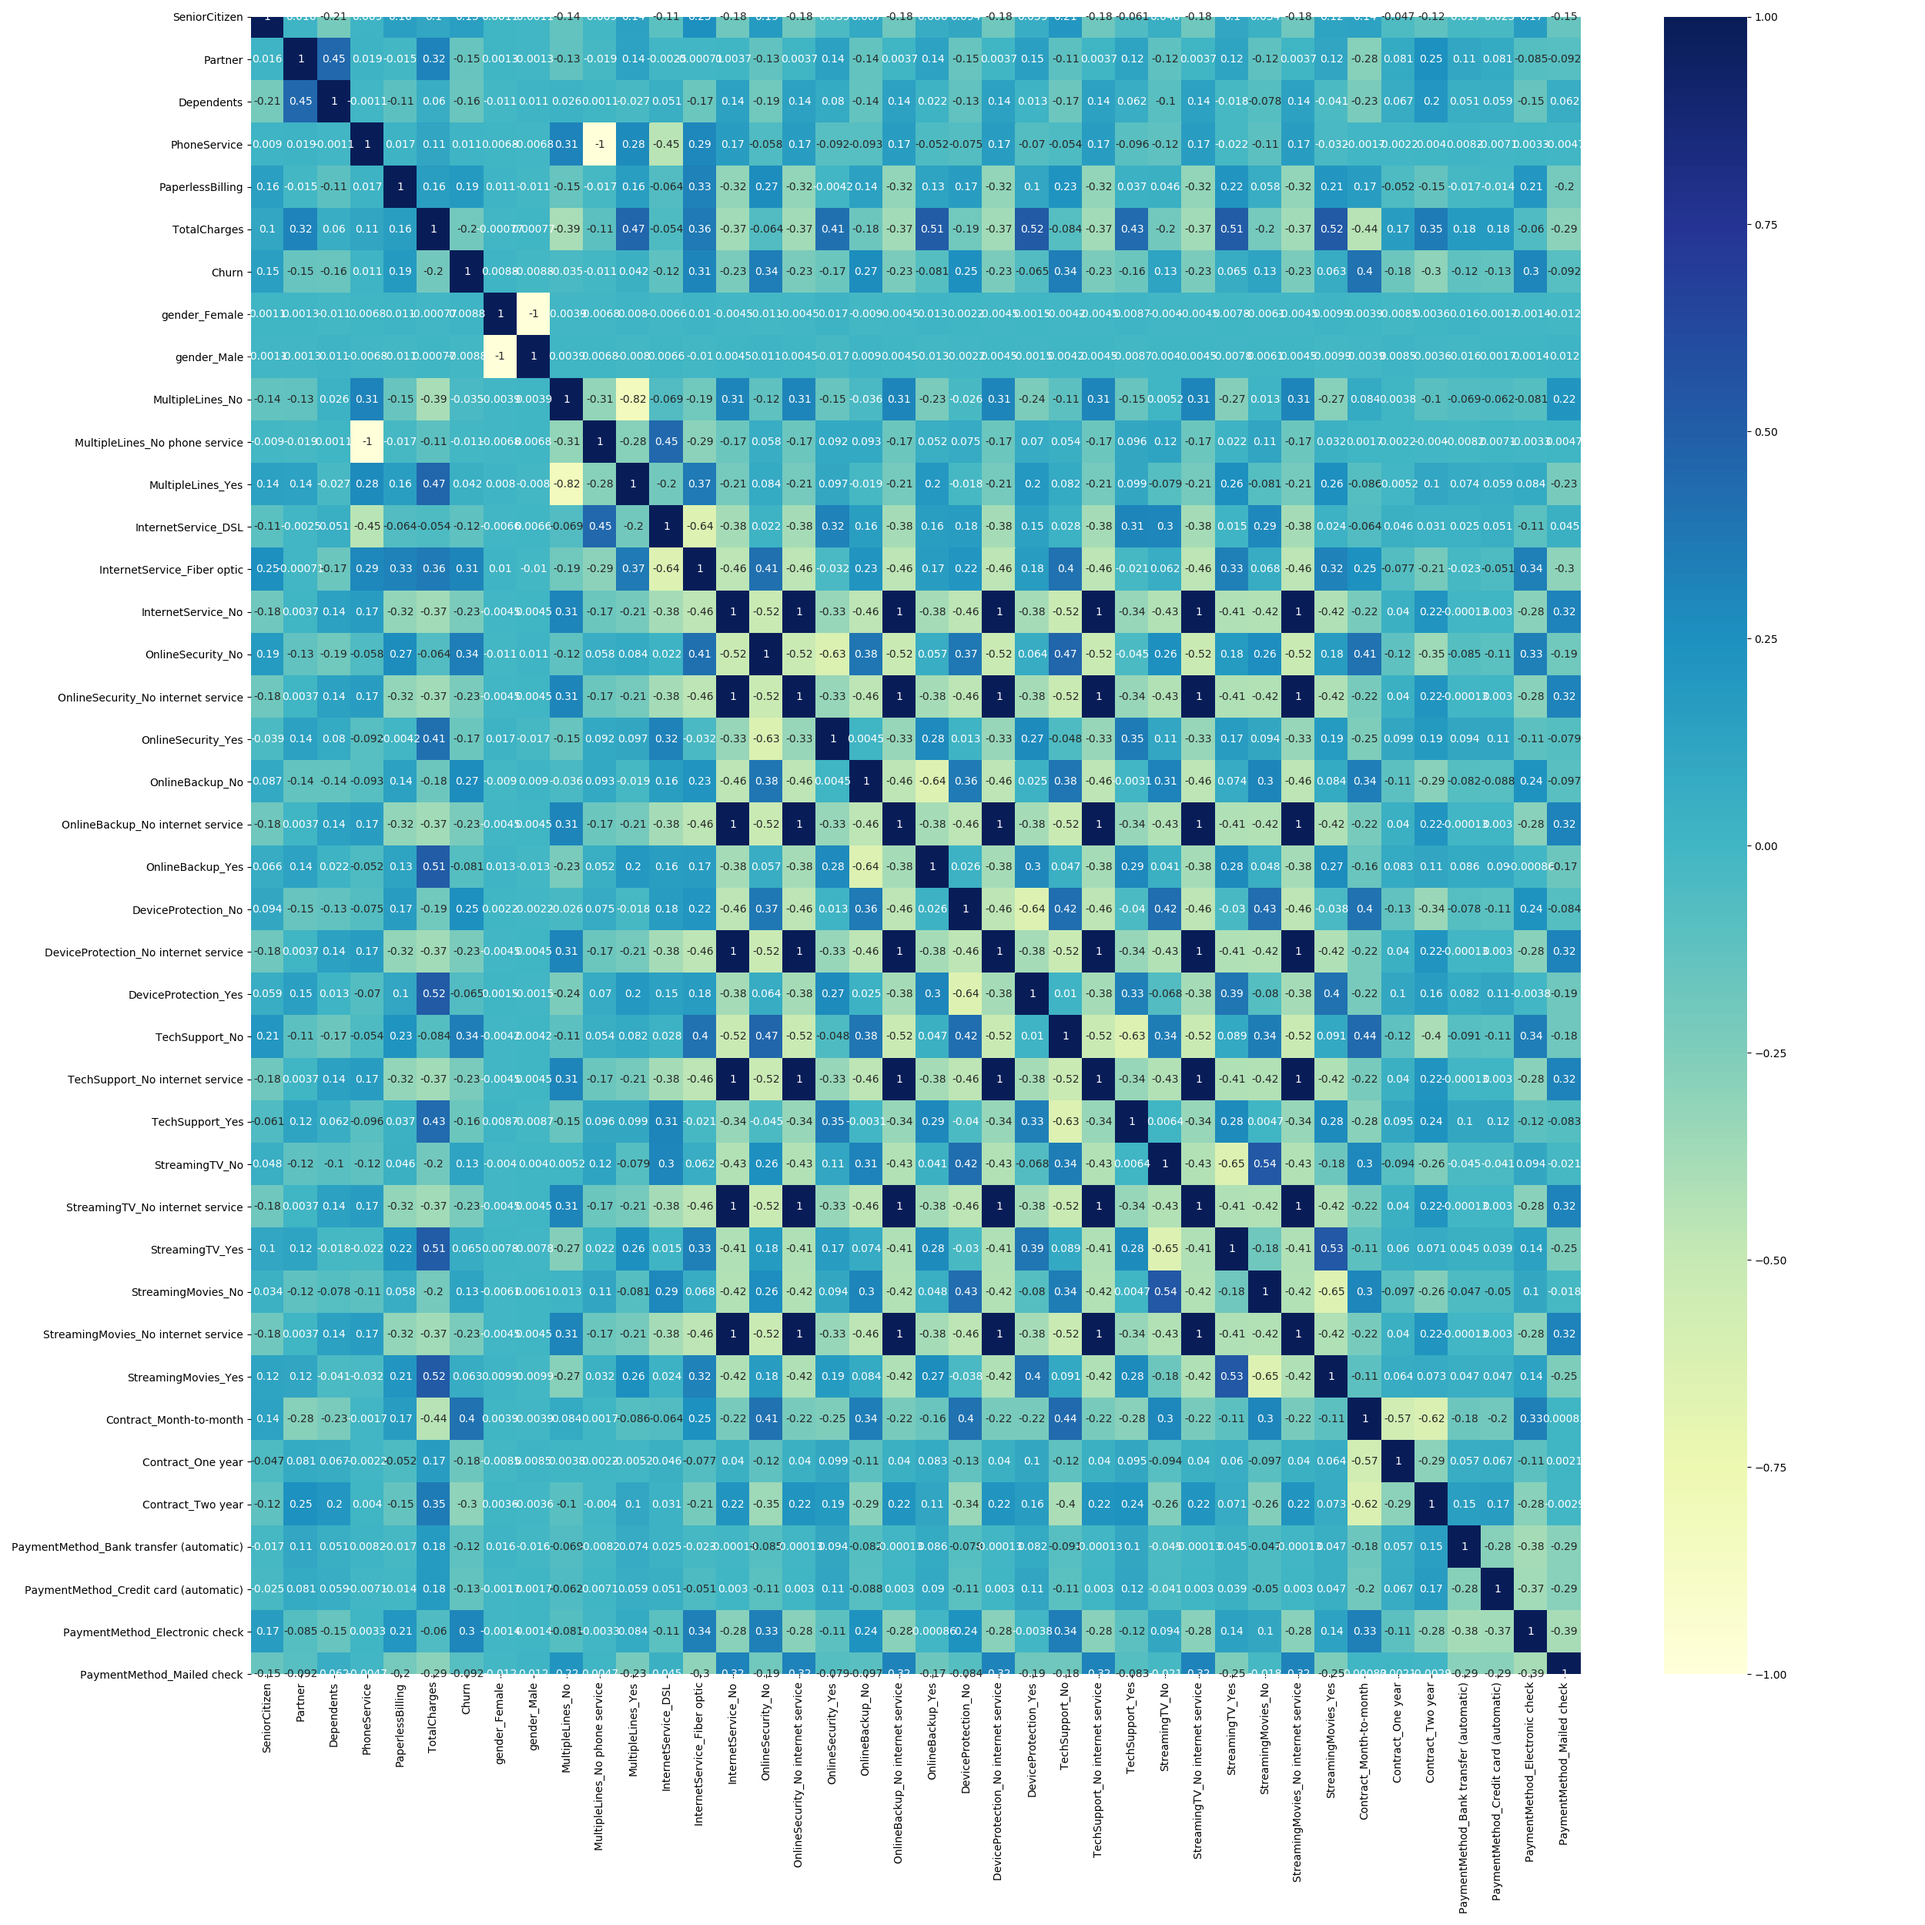
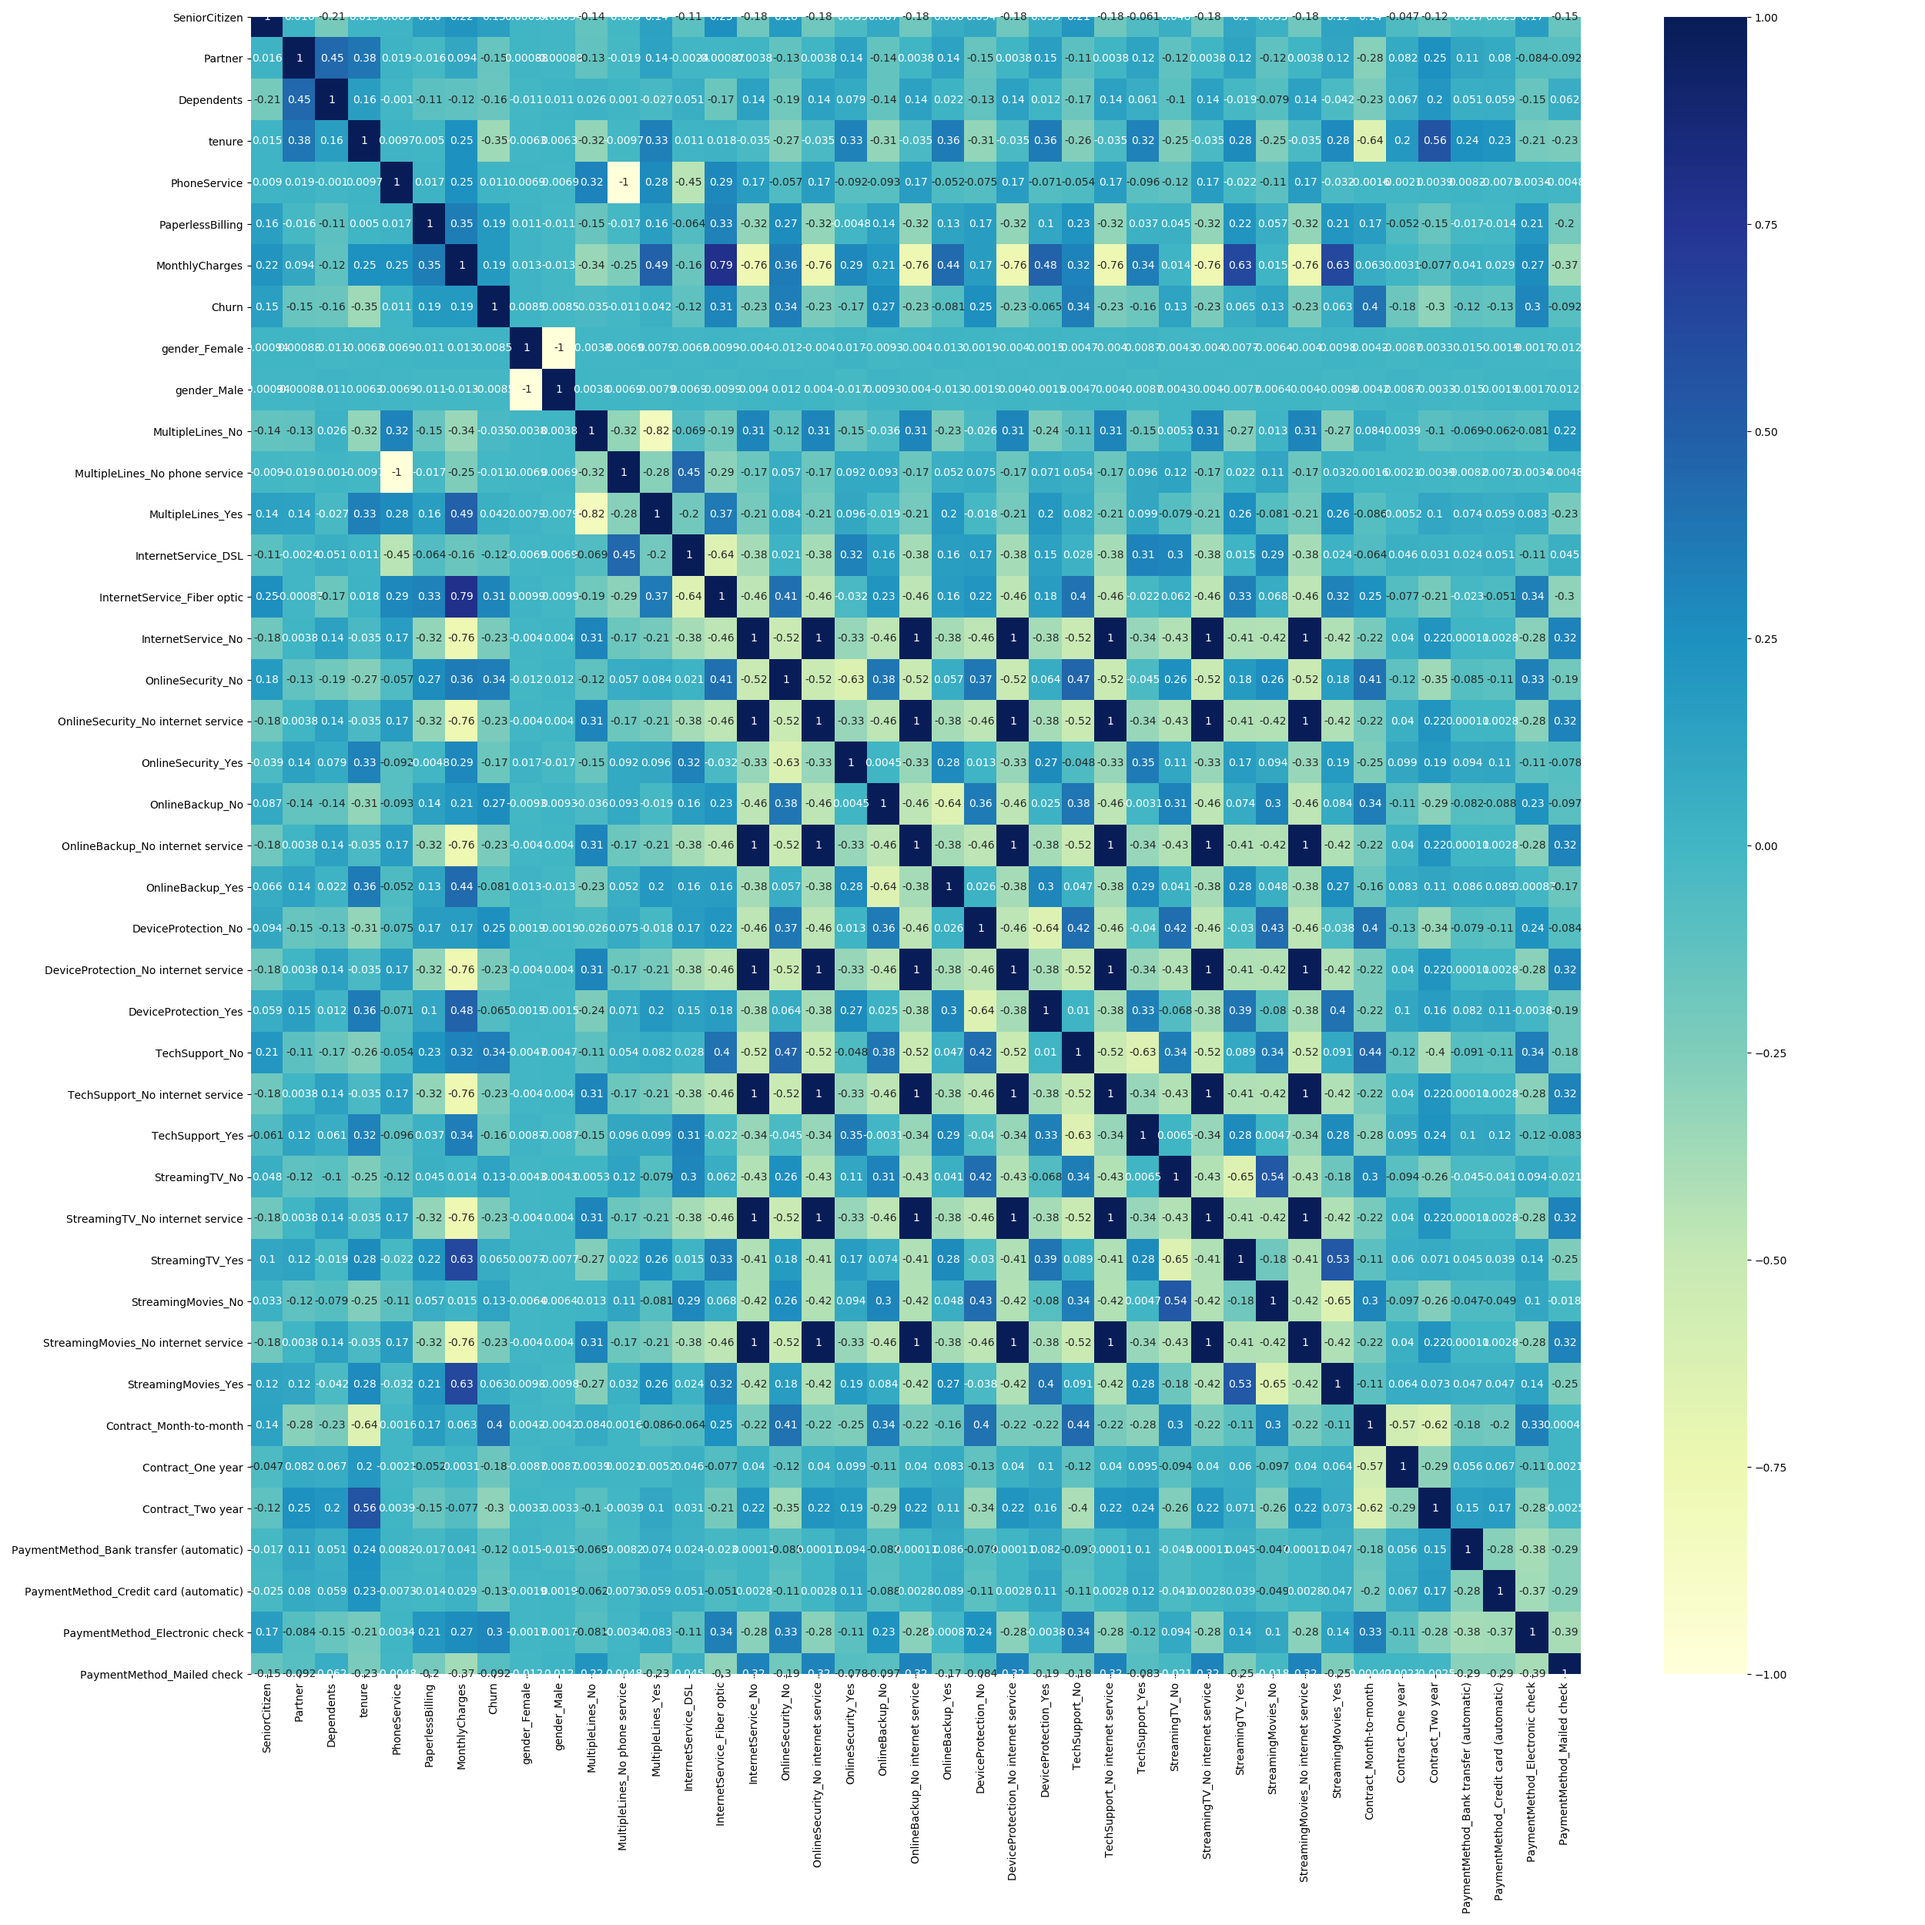
kleiner patch

diff --git a/data_prep.py b/data_prep.py
@@ -4,7 +4,7 @@ from sklearn import preprocessing
 from imblearn.over_sampling import SMOTE
 
 
-from data_analysis import correlation_matrix, distribution
+from data_analysis import correlation_matrix, distribution, bar
 
 
 class Data_Preperation():
@@ -39,8 +39,9 @@ class Data_Preperation():
         df = pd.read_csv('archive/WA_Fn-UseC_-Telco-Customer-Churn.csv')
         #print(df)
 
-        # CustomerID, tenure und MonthlyCharges brauchen wir nicht, wird deswegen entfernt
-        df = df.drop(['customerID'], axis=1)
+        # CustomerID hat kein Informationsgehalt für Churn-Prediction -->Drop
+        # Durch MonthlyCharges und Tenure erhalten wir TotalCharges, überflüssig -->Drop
+        df = df.drop(['customerID', 'TotalCharges'], axis=1)
 
 
 
@@ -58,49 +59,51 @@ class Data_Preperation():
 
 
 
-        # Im Feature 'TotalCharges' sind die Werte als string gespeichert, werden hier umgewandelt
-        df['TotalCharges'] = df['TotalCharges'].replace({" ":'0'})
-        df['TotalCharges'] = df['TotalCharges'].astype(float)
+        #bar(df, 'Churn')
 
         df = self.__one_hot_encoding(df)
 
         #Correlations Matrix ausdrucken
         #correlation_matrix(df)
+
         print('Corr gender_Female: ', df['gender_Female'].corr(df['Churn']))
         print('Corr gender_Male: ', df['gender_Male'].corr(df['Churn']))
 
         #Gender haben beide Ausprägungen so gut wie keine Korrelation zu Churn -->Drop
         #Die ganzen 'No Internet Service' Ausprägungen sind bereits im Feature Internetservice enthalten-->Drop
-        df = df.drop(['gender_Female', 'gender_Male', 'OnlineSecurity_No internet service',
+        df = df.drop(['gender_Female', 'gender_Male',  'PhoneService', 'OnlineSecurity_No internet service',
                       'OnlineBackup_No internet service', 'DeviceProtection_No internet service',
                       'TechSupport_No internet service', 'StreamingTV_No internet service',
                       'StreamingMovies_No internet service', 'MultipleLines_No phone service'], axis=1)
 
+        #df = df.drop(['PhoneService' ])
+
         #correlation_matrix(df)
 
-        #Durch MonthlyCharges und Tenure erhalten wir TotalCharges, überflüssig -->Drop
+
         #Die anderen Feats haben sehr geringe Korrelation mit Churn,
         # dafür teilweise hohe Korrelation mit MonthlyCharges -->Drop
-        df = df.drop(['TotalCharges', 'StreamingMovies_Yes', 'StreamingTV_Yes', 'OnlineBackup_Yes', 'MultipleLines_Yes',
+        '''df = df.drop([ 'StreamingMovies_Yes', 'StreamingTV_Yes', 'OnlineBackup_Yes', 'MultipleLines_Yes',
                       'MultipleLines_No', 'PhoneService', 'Partner', 'InternetService_DSL', 'InternetService_No',
-                      'DeviceProtection_Yes'], axis=1)
+                      'DeviceProtection_Yes'], axis=1)'''
 
         #correlation_matrix(df)
 
-        df = df.drop(['TechSupport_Yes', 'OnlineSecurity_Yes', 'PaymentMethod_Mailed check',
+        '''df = df.drop(['TechSupport_Yes', 'OnlineSecurity_Yes', 'PaymentMethod_Mailed check',
                       'PaymentMethod_Credit card (automatic)', 'PaymentMethod_Bank transfer (automatic)',
                       'Contract_One year', 'Contract_Two year' ], axis = 1 )
-        correlation_matrix(df)
+        correlation_matrix(df)'''
 
         #distribution(df, 'tenure')
         #distribution(df, 'MonthlyCharges')
-        df['MonthlyChargesBinned'] = df['MonthlyCharges'].apply(lambda x: 0 if (x < 35) else(1 if x < 70 else 2))
-        df['TenureBinned'] = df['tenure'].apply(lambda x: 0 if x < 20 else 1)
+        df['MonthlyCharges_low'] = df['MonthlyCharges'].apply(lambda x: 1 if (x < 35) else 0)
+        df['MonthlyCharges_high'] = df['MonthlyCharges'].apply(lambda x: 1 if (x > 70) else 0)
+        df['Tenure_low'] = df['tenure'].apply(lambda x: 0 if x < 20 else 1)
         #df['short_tenure'] = df['tenure'].apply(lambda x: 1 if x < 20 else 0)
         #df['high_charges'] = df['MonthlyCharges'].apply(lambda x: 1 if x > 70 and x < 110 else 0)
 
         df = df.drop(['tenure', 'MonthlyCharges'], axis=1)
-        correlation_matrix(df)
+        #correlation_matrix(df)
 
 
 
@@ -139,7 +142,7 @@ class Data_Preperation():
         print('Yes: ', round(churn_val_count[1] / churn_val_count.sum() * 100, 2), ' %')
         return x,y
 
-    def run(self,  standardize_data=True, oversampling=True):
+    def run(self,  standardize_data=False, oversampling=True):
         """Liest die Daten und bereitet sie vor, wendet One Hot Encoding an falls gewünscht und trennt die Daten in
         Trainings- und Testdaten
 
@@ -154,7 +157,6 @@ class Data_Preperation():
 
 
         #Standardisieren
-        #TODO: Prüfen ob Booleanwerte wirklich auch standardisiert werden
         if standardize_data:
             columns = x.columns
             index = x.index

diff --git a/Entscheidungsbaum.py b/Entscheidungsbaum.py
@@ -16,7 +16,7 @@ x_train, x_test, y_train, y_test = data_prep.run()
 """"Mini"baum - Kein Prepruning"""
 
 
-tree = DecisionTreeClassifier(criterion='entropy', random_state=10)
+"""tree = DecisionTreeClassifier(criterion='entropy', random_state=10)
 tree.fit(x_train, y_train)
 labels = tree.predict(x_test)
 #print(f"F1-Score kein Prepruning: {f1_score(labels, y_test)}")
@@ -34,10 +34,10 @@ print("F1-score for basis model: ", sklearn.metrics.f1_score(y_test, y_pred))
 
 
 
-"""Baum mit Prepruning mit folgenden Parametern
+Baum mit Prepruning mit folgenden Parametern
 max_depth = Default None, Max Tiefe
 min_samples_split = Min Beispiele zur Aufteilung einer Node
-min_samples_leaf = Default 1, Min Beispiel Blätter"""
+min_samples_leaf = Default 1, Min Beispiel Blätter
 
 
 tree = DecisionTreeClassifier()
@@ -65,14 +65,14 @@ print("Recall for basis model: ", recall_score(y_test, y_pred))
 print("F1-score for basis model: ", sklearn.metrics.f1_score(y_test, y_pred))
 
 
-"""Wald Forest gibt es ebenfalls einige Hyperparameter, die optimiert werden sollten:
+Wald Forest gibt es ebenfalls einige Hyperparameter, die optimiert werden sollten:
 n_estimators = Default 100, Anzahl der Bäume im Wald
 criterion = Default "gini" | entropy = Messbarkeit der Aufteilung
 max_features = Default None, max tiefe des Waldes
 max_samples = Default 2, min Beispiele zum splitten
 """
 forest = RandomForestClassifier(random_state=1)
-params = {'n_estimators': range(20, 201, 10), 'criterion': ['entropy'], 'max_depth': [None],
+params = {'n_estimators': [150,200,250,300], 'criterion': ['entropy'], 'max_depth': [15,20,25],
           'max_features': [0.6, 0.75, 0.8], 'max_samples': [0.5, 0.632, 0.75]}
 clf = GridSearchCV(forest, params, scoring='f1', cv=5, verbose=2)
 clf.fit(x_train, y_train)

diff --git a/support_vector_machine.py b/support_vector_machine.py
@@ -15,8 +15,8 @@ x_train, x_test, y_train, y_test = data_prep.run(oversampling=True)
 params_linear = dict(kernel=[ 'linear'], C=[ 1.0, 0.1, 0.01, 0.001, 0.0001 ],)
 params_poly = dict(kernel=['poly'], C=[ 0.1, 0.05, 0.01, 0.001 ],
                    gamma=['scale', 'auto',  0.5, 0.1, 0.01 ], degree=[2,3,4])
-params_sigmoid = dict(kernel=['sigmoid'], C=[10, 0.1, 0.05, 0.01, ],
-                   gamma=['scale', 'auto', 10, 1.0,0.5, 0.1, 0.01 ])
+params_sigmoid = dict(kernel=['sigmoid'], C=[100, 10, 0.1 ],
+                   gamma=['scale', 'auto',  1.0, 0.1, 0.01, 0.001, 0.0001 ])
 params_rbf = dict(kernel=['rbf'], C=[10, 0.1, 0.05, 0.01, ],
                    gamma=['scale', 'auto', 10, 1.0,0.5, 0.1, 0.01 ])
 
@@ -36,7 +36,8 @@ params_rbf = dict(kernel=['rbf'], C=[10, 0.1, 0.05, 0.01, ],
 
 
 #f1_scorer = metrics.make_scorer(metrics.f1_score)
-'''grid_search = model_selection.GridSearchCV(estimator=svm.SVC(), param_grid=params_sigmoid, verbose=2,
+
+'''grid_search = model_selection.GridSearchCV(estimator=svm.SVC(), param_grid=params_rbf, verbose=2,
                                            return_train_score=True, n_jobs=1)
 grid_search.fit(x_train, y_train)
 print('Mean cross-validated score of the best_estimator: ', grid_search.best_score_)
@@ -45,7 +46,7 @@ print(grid_search.best_params_)'''
 
 
 #svm_clf = svm.SVC(**grid_search.best_params_).fit(x_train, y_train)
-svm_clf = svm.SVC(kernel='rbf',  C=0.01).fit(x_train, y_train)
+svm_clf = svm.SVC(kernel='linear',  C=0.01).fit(x_train, y_train)
 
 val_pred = svm_clf.predict(x_test)
 

diff --git a/data_analysis.py b/data_analysis.py
@@ -29,3 +29,9 @@ def distribution(df, feat):
     plt.legend()
     plt.show()
 
+def bar(df,feat):
+    plt.figure()
+    sb.countplot(data=df,x=feat)
+    plt.legend()
+    plt.show()
+
